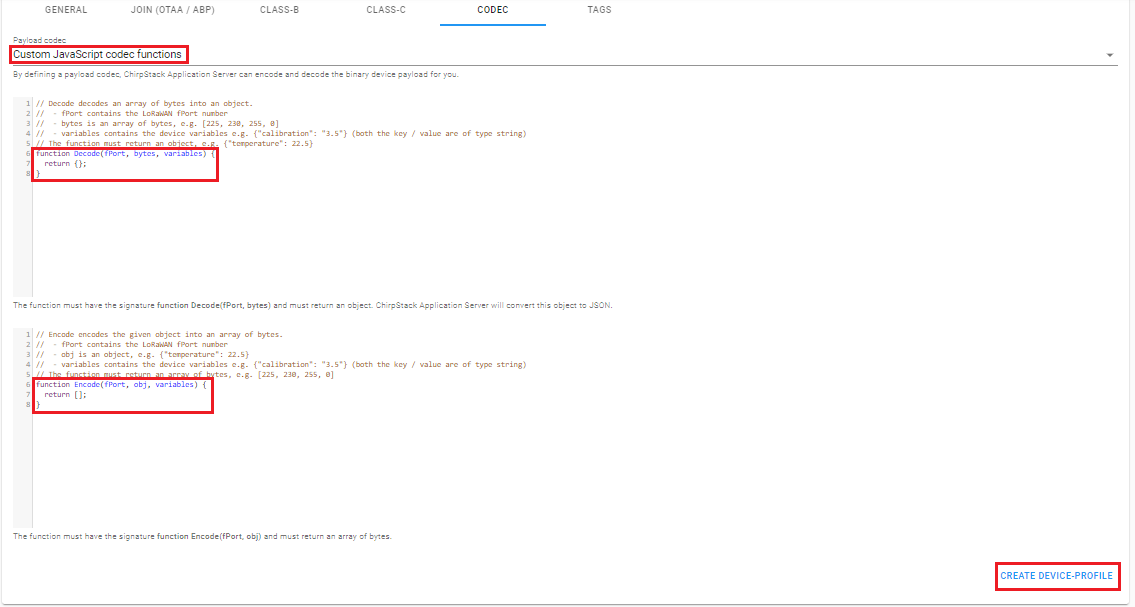
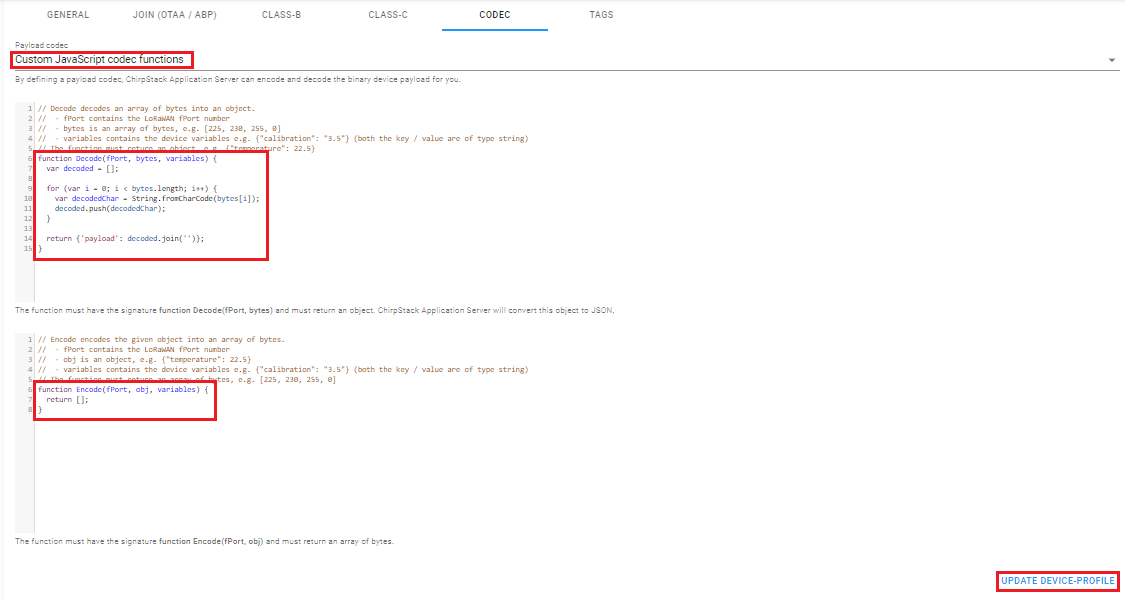
done: docs

diff --git a/README.md b/README.md
@@ -131,6 +131,24 @@ Select **Custom JavaScript codec functions**, with this you can just write any f
 
 ![Writting Codec](docs/images/12_writting_codec.png)
 
+In this codec that I made, I just make the conversion of hex to char and then join the array, if you want do the same thing, use the following code:
+```
+function Decode(fPort, bytes, variables) {
+  var decoded = [];
+  
+  for (var i = 0; i < bytes.length; i++) {
+  	var decodedChar = String.fromCharCode(bytes[i]);
+    decoded.push(decodedChar);
+  }
+  
+  return {'payload': decoded.join('')};
+}
+```
+
+As result, you have this kind of package when observe the device data: 
+
+![Codec Result](docs/images/22_codec_result.png)
+
 ### Creating a Gateway
 
 Click on **Gateways** then **CREATE**
@@ -182,7 +200,7 @@ On this screen fill the fields:
 - **Device description**: any description to specify this device
 - **Device-profile**: profile that you created previously
 
-The field **Device EUI** select **LSB** and click on **refresh** icon to generate a Device EUI.
+In the field **Device EUI** select **MSB** (if you will use my device library, other wise use LSB) and click on **refresh** icon to generate a Device EUI.
 
 Check the following fields:
 
@@ -197,3 +215,7 @@ Now select the device
 Click on **Keys (OTAA)**, click on both **refresh icons** to create **Application key** and **Gen Application Key** then **SET DEVICE-KEYS**. You will use this keys to setup your hardware.
 
 ![Setting Device Keys](docs/images/21_create_device_keys.png)
+
+Your device is done, if you desire to watch the data on your device just click on **DEVICE DATA**
+
+![Observe Data](docs/images/23_observe_data.png)
